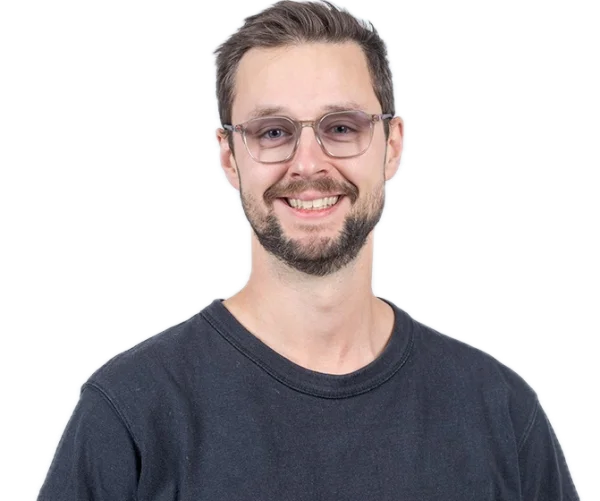
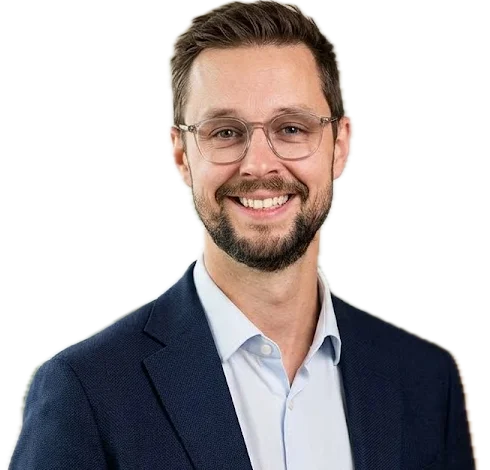
Byt porträtt till bilden i kavaj

diff --git a/src/components/home/Home.tsx b/src/components/home/Home.tsx
@@ -85,11 +85,11 @@ function HeroPortrait({ alt }: { alt: string }) {
       >
         {/* eslint-disable-next-line @next/next/no-img-element */}
         <img
-          className="absolute bottom-0 left-1/2 w-[135%] max-w-none -translate-x-1/2"
+          className="absolute bottom-0 left-1/2 w-[120%] max-w-none -translate-x-1/2"
           src="/portrait.webp"
           alt={alt}
-          width={600}
-          height={501}
+          width={490}
+          height={470}
         />
       </div>
     </div>

diff --git a/EDITING.md b/EDITING.md
@@ -34,7 +34,7 @@ All text på startsidan står i frontmatter (blocket mellan `---`) i `content/in
 
 ## Porträtt
 
-Porträttet på startsidan är `public/portrait.webp`: en frilagd bild (transparent bakgrund) av huvud och överkropp, cirka 600 px bred med håret ända upp mot överkanten. Den gula cirkeln och dekoren ritas i koden. Bildtexten för skärmläsare står i `hero.portraitAlt` i `content/index.md`.
+Porträttet på startsidan är `public/portrait.webp`: en frilagd bild (transparent bakgrund) av huvud och överkropp, cirka 500 px bred med håret ända upp mot överkanten. Den gula cirkeln och dekoren ritas i koden. Bildtexten för skärmläsare står i `hero.portraitAlt` i `content/index.md`.
 
 ## Förhandsgranska lokalt (valfritt)
 

diff --git a/content/index.md b/content/index.md
@@ -9,7 +9,7 @@ email: hej@aholmstrom.se
 hero:
   greeting: Hej, jag är
   name: Anton Holmström
-  portraitAlt: Porträtt av Anton Holmström, leende, med glasögon och mörk t-shirt.
+  portraitAlt: Porträtt av Anton Holmström, leende, med glasögon, mörk kavaj och ljus skjorta.
   intro:
     - Föreläsare, rådgivare och doktorand i informationssäkerhet vid Luleå tekniska universitet.
     - Informationssäkerhet är större än IT. Jag hjälper organisationer att förstå vad som faktiskt händer när tekniken sviker, och att bygga förmåga hos människorna, arbetssätten och systemen som måste fungera tillsammans.
